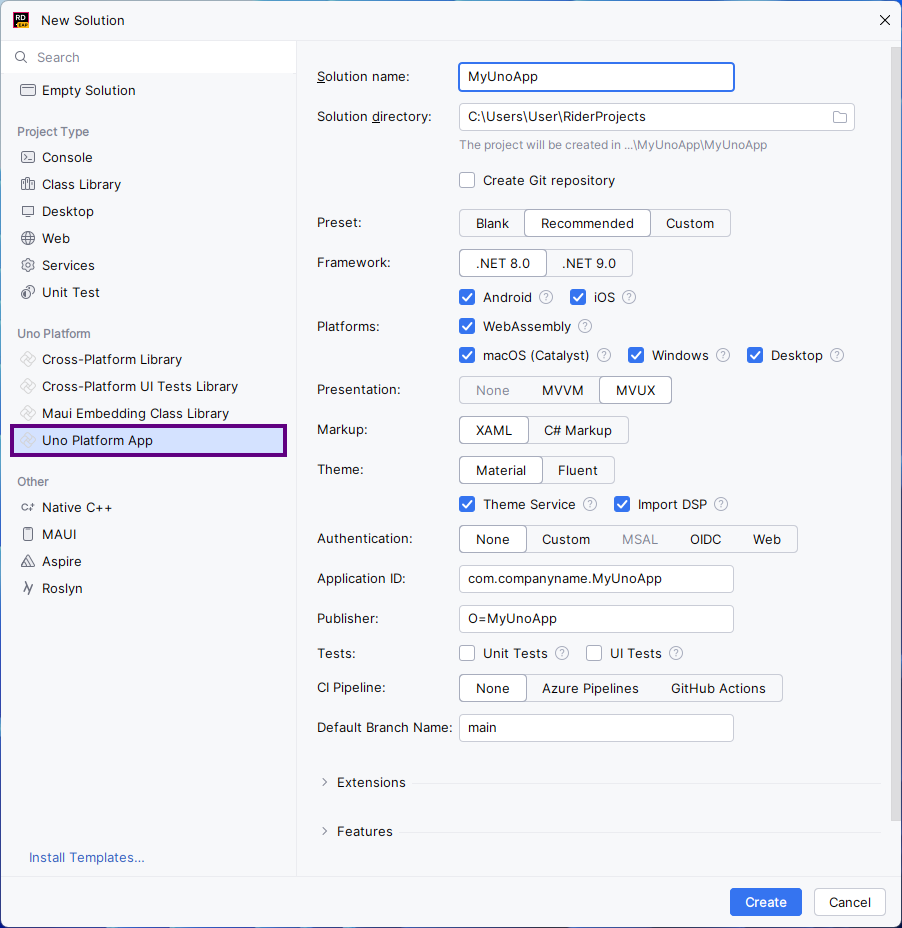
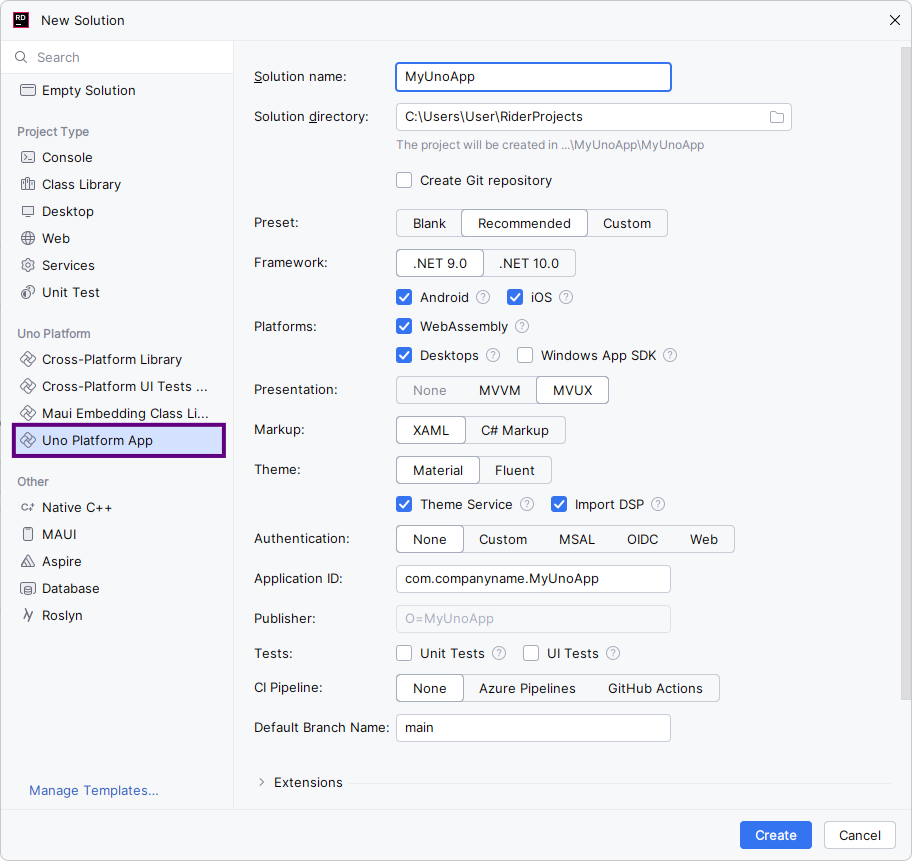
docs: Update migration guides for Uno 6.3 with .NET 10 support and dropped .NET 8 support

diff --git a/doc/articles/net-version-support.md b/doc/articles/net-version-support.md
@@ -10,16 +10,29 @@ This page lists supported .NET versions and [C# language versions](https://learn
 
 ## Table of supported versions
 
-# [**Uno 5 and later**](#tab/uno5)
+# [**Uno Platform 6.3 and later**](#tab/uno63)
+
+| Platform                                   | Default .NET version | Default C# version |  Max .NET version | Max C# version |
+|--------------------------------------------|:--------------------:|:------------------:|:-----------------:|:--------------:|
+| WebAssembly                                | .NET 9               | 13                 | .NET 10           | 14             |
+| Skia Desktop                               | .NET 9               | 13                 | .NET 10           | 14             |
+| WinAppSDK                                  | .NET 9               | 13                 | .NET 10           | 14             |
+| iOS, Android                               | .NET 9               | 13                 | .NET 10           | 14             |
+
+### Notes
+
+- In Uno Platform 6.3, support for .NET 8 has been removed.
+
+# [**Uno Platform 5 and later**](#tab/uno5)
 
 | Platform                                   | Default .NET version | Default C# version |  Max .NET version | Max C# version |
 |--------------------------------------------|:--------------------:|:------------------:|:-----------------:|:--------------:|
 | WebAssembly                                | .NET 8               | 12                 | .NET 9            | 13             |
 | Skia Desktop                               | .NET 8               | 12                 | .NET 9            | 13             |
 | WinAppSDK                                  | .NET 8               | 12                 | .NET 9            | 13             |
-| iOS, Android  | .NET 8               | 12                 | .NET 9            | 13             |
+| iOS, Android                               | .NET 8               | 12                 | .NET 9            | 13             |
 
 ### Notes
 
-- In Uno 5.3, support for .NET 7 has been removed.
-- In Uno 5.0, support for .NET 6 (iOS, Android, mac Catalyst), Xamarin.Android, Xamarin.iOS, and Xamarin.macOS were removed.
+- In Uno Platform 5.3, support for .NET 7 has been removed.
+- In Uno Platform 5.0, support for .NET 6 (iOS, Android, mac Catalyst), Xamarin.Android, Xamarin.iOS, and Xamarin.macOS were removed.

diff --git a/doc/articles/migrating-from-previous-releases.md b/doc/articles/migrating-from-previous-releases.md
@@ -4,6 +4,33 @@ uid: Uno.Development.MigratingFromPreviousReleases
 
 # Migrating from Previous Releases of Uno Platform
 
+## Uno Platform 6.3
+
+Uno Platform 6.3 introduces support for .NET 10 RC1 and drops .NET 8 targets.
+
+### Visual Studio, Visual Studio Code, and Rider
+
+When upgrading to Uno Platform 6.3, make sure to update your IDE extension or plugin to the latest stable version to ensure the Uno Platform development tooling connects properly.
+
+- [Visual Studio extension](https://aka.platform.uno/vs-extension-marketplace)
+- [Visual Studio Code extension](https://aka.platform.uno/vscode-extension-marketplace)
+- [Rider plugin](https://aka.platform.uno/rider-extension-marketplace)
+
+### .NET 8 Support Removed
+
+.NET 8 targets are no longer supported by Uno 6.3. While .NET 8 itself remains a Long Term Support (LTS) release supported until [November 2026](https://dotnet.microsoft.com/en-us/platform/support/policy/dotnet-core), the .NET MAUI 8 workload (mobile) reached end of support on [May 2025](https://dotnet.microsoft.com/en-us/platform/support/policy/maui). You can [upgrade your project to .NET 9](xref:Uno.Development.MigratingFromNet8ToNet9) using our guide.
+
+If you need to stay on .NET 8, you can continue to use **Uno Platform 6.2 or earlier** and plan your migration to .NET 9 or .NET 10.
+
+### .NET 10 RC1
+
+Uno Platform 6.3 is now built with .NET 10 support, allowing you to upgrade existing ones or create new projects using the wizard.
+A few considerations to take into account:
+
+- Moving to .NET 10 or upgrading .NET 10 projects requires the use of .NET 10 RC1 and latest version of [Visual Studio 2026 Insiders](https://visualstudio.microsoft.com/insiders/) as recommended by Microsoft in this [announcement](https://devblogs.microsoft.com/dotnet/dotnet-10-rc-1/#🚀-get-started).
+- Uno Platform provides an updated [Visual Studio extension](https://aka.platform.uno/vs-extension-marketplace) in the store that supports Visual Studio 2026 and the new `.slnx` solution format.
+- To migrate a project to .NET 10, [read the directions](xref:Uno.Development.MigratingFromNet9ToNet10) from our documentation.
+
 ## Uno Platform 6.2
 
 Uno Platform 6.2 does not contain breaking changes that require attention when upgrading.

diff --git a/doc/articles/guides/solution-building-single-targetframework.md b/doc/articles/guides/solution-building-single-targetframework.md
@@ -40,17 +40,17 @@ To do so:
         <PropertyGroup>
             <!-- Uncomment each line for each platform that you want to build: -->
 
-            <!-- <OverrideTargetFramework Condition="''!='hint: Windows App Sdk (WinUI)'">net8.0-windows10.0.19041.0</OverrideTargetFramework> -->
-            <!-- <OverrideTargetFramework Condition="''!='hint: Webassembly'">net8.0-browserwasm</OverrideTargetFramework> -->
-            <!-- <OverrideTargetFramework Condition="''!='hint: Desktop'">net8.0-desktop</OverrideTargetFramework> -->
-            <!-- <OverrideTargetFramework Condition="''!='hint: iOS'">net8.0-ios</OverrideTargetFramework> -->
-            <!-- <OverrideTargetFramework Condition="''!='hint: Android'">net8.0-android</OverrideTargetFramework> -->
-            <!-- <OverrideTargetFramework Condition="''!='hint: TvOS'">net8.0-tvos</OverrideTargetFramework> -->
+            <!-- <OverrideTargetFramework Condition="''!='hint: Windows App Sdk (WinUI)'">net9.0-windows10.0.19041.0</OverrideTargetFramework> -->
+            <!-- <OverrideTargetFramework Condition="''!='hint: Webassembly'">net9.0-browserwasm</OverrideTargetFramework> -->
+            <!-- <OverrideTargetFramework Condition="''!='hint: Desktop'">net9.0-desktop</OverrideTargetFramework> -->
+            <!-- <OverrideTargetFramework Condition="''!='hint: iOS'">net9.0-ios</OverrideTargetFramework> -->
+            <!-- <OverrideTargetFramework Condition="''!='hint: Android'">net9.0-android</OverrideTargetFramework> -->
+            <!-- <OverrideTargetFramework Condition="''!='hint: TvOS'">net9.0-tvos</OverrideTargetFramework> -->
         </PropertyGroup>
     </Project>
     ```
 
-    Make sure to replace `net8.0` and `-windows10.0.19041.0` with the appropriate version from your `.csproj` project.
+    Make sure to replace `net9.0` and `-windows10.0.19041.0` with the appropriate version from your `.csproj` project.
 
 - You can commit `solution-config.props.sample` to your source control.
 - Next, make a copy of `solution-config.props.sample` to `solution-config.props`. This file is [automatically loaded](https://github.com/unoplatform/uno/blob/71f1d5ab067c0dcfad2f4cccd310e506cdeaf6bf/src/Uno.Sdk/targets/Uno.Import.SolutionConfig.props#L9) by the `Uno.Sdk`.

diff --git a/doc/articles/migrating-to-single-project.md b/doc/articles/migrating-to-single-project.md
@@ -60,15 +60,15 @@ We'll take the example of an Uno Platform 5.0 blank app, called `MyApp`, to migr
 
    ```xml
    <Choose>
-     <When Condition="'$(TargetFramework)'=='net8.0-ios'">
+     <When Condition="'$(TargetFramework)'=='net9.0-ios'">
      </When>
-     <When Condition="'$(TargetFramework)'=='net8.0-android'">
+     <When Condition="'$(TargetFramework)'=='net9.0-android'">
      </When>
-     <When Condition="'$(TargetFramework)'=='net8.0-windows10.0.19041'">
+     <When Condition="'$(TargetFramework)'=='net9.0-windows10.0.19041'">
      </When>
-     <When Condition="'$(TargetFramework)'=='net8.0-desktop'">
+     <When Condition="'$(TargetFramework)'=='net9.0-desktop'">
      </When>
-     <When Condition="'$(TargetFramework)'=='net8.0-browserwasm'">
+     <When Condition="'$(TargetFramework)'=='net9.0-browserwasm'">
      </When>
    </Choose>
    ```
@@ -111,13 +111,13 @@ We'll take the example of an Uno Platform 5.0 blank app, called `MyApp`, to migr
     ```xml
     <ProjectReference 
         Include="..\MyApp\MyApp.csproj"
-        SetTargetFramework="TargetFramework=net8.0-browserwasm"
+        SetTargetFramework="TargetFramework=net9.0-browserwasm"
         ReferenceOutputAssembly="false" />
     ```
 
 1. From the empty app created at step one, take the `Directory.Build.props` and `Directory.Build.targets` files and copy those over your own root folder. Make sure to copy individual changes made in your file, such as `CSharpVersion` or `Nullable`.
 1. From the empty app created at step one, take the `Directory.Packages.props`file and copy it over to your own root folder. All of the NuGet packages can be removed from this file, as the Uno.SDK provides those automatically.
-1. In all the projects files, replace `$(DotnetVersion)` with `net8.0`
+1. In all the projects files, replace `$(DotnetVersion)` with `net9.0`
 1. Remove the `solution-config.props.sample` file. This part is now handled by Uno Platform automatically.
 
 At this point, your solution can be compiled using a single project and Uno Platform 5.2. For a guide through using the new single project, head over to [our getting started](xref:Uno.GetStarted).

diff --git a/doc/articles/getting-started/wizard/includes/framework.md b/doc/articles/getting-started/wizard/includes/framework.md
@@ -1,17 +1,23 @@
-This setting lets you choose the .NET version to target. The default is .NET 9.0, but you can also choose .NET 8.0!
-
-- #### .NET 8.0
-
-    [.NET 8.0](https://learn.microsoft.com/dotnet/core/whats-new/dotnet-8) is the successor to .NET 7. It will be supported for three years (until November 2026) as a long-term support (LTS) release. This is the most stable option for new projects.
-
-    ```dotnetcli
-    dotnet new unoapp -tfm net8.0
-    ```
+This setting lets you choose the .NET version to target. The default is .NET 9.0, but you can also choose .NET 10.0!
 
 - #### .NET 9.0
 
-    [.NET 9.0](https://learn.microsoft.com/en-us/dotnet/core/whats-new/dotnet-9/overview) the successor to .NET 8, has a special focus on cloud-native apps and performance. It will be supported for 18 months (until May 2026) as a standard-term support (STS) release. This is the default (for both blank and recommended presets).
+    [.NET 9.0](https://learn.microsoft.com/en-us/dotnet/core/whats-new/dotnet-9/overview), the successor to .NET 8, has a special focus on cloud-native apps and performance.
+    As a Standard Term Support (STS) release, it is now supported for **24 months (until November 10, 2026)**. See the [STS latest announcement](https://devblogs.microsoft.com/dotnet/dotnet-sts-releases-supported-for-24-months/) for more details.
+
+    > [!NOTE]
+    > For **mobile workloads**, there is **no change yet**, support remains at **18 months**. See [MAUI support policy](https://dotnet.microsoft.com/en-us/platform/support/policy/maui) for more details.
 
     ```dotnetcli
     dotnet new unoapp -tfm net9.0
+    ```
+
+- #### .NET 10.0
+
+    [.NET 10.0](https://learn.microsoft.com/en-us/dotnet/core/whats-new/dotnet-10/overview), the successor to .NET 9, includes improvements in performance, C# 14 support, and long-term platform stability.
+    As a Long Term Support (LTS) release, it will be supported for **three years (until November 2028)**.
+    At the moment, it is in preview and the least stable option for new projects.
+
+    ```dotnetcli
+    dotnet new unoapp -tfm net10.0
     ```

diff --git a/doc/articles/concepts/overview/why-uno-platform.md b/doc/articles/concepts/overview/why-uno-platform.md
@@ -174,7 +174,7 @@ Based on SkiaSharp support, Uno Platform provides AnimatedVisualPlayer to give t
 
 ## Performance and app size with AOT/Jiterpreter
 
-Uno Platform allows to use .NET 8 features such as Profiled AOT (Ahead Of Time compilation) and the Jiterpreter, to get better performance for your apps and balanced size. Profiled AOT is a powerful feature that allows to continue using the interpreter for code that is not often used, thus keeping your app's size down.
+Uno Platform allows to use .NET 9+ features such as Profiled AOT (Ahead Of Time compilation) and the Jiterpreter, to get better performance for your apps and balanced size. Profiled AOT is a powerful feature that allows to continue using the interpreter for code that is not often used, thus keeping your app's size down.
 
 ## Comprehensive App Packaging for All Platforms
 
@@ -283,7 +283,7 @@ As Uno Platform grows, the team behind it grows as well. The product is in good 
 
 ## Integrates with any .NET Library
 
-In addition to the UI components mentioned above, Uno Platform apps also integrate perfectly with your existing .NET libraries. This includes both .NET Standard 2.0 and libraries targeting .NET 6, up to the latest with .NET 8. Because of this, your Uno Platform app has compatibility with packages like Json.NET, LiteDB, SQLite, and SkiaSharp.
+In addition to the UI components mentioned above, Uno Platform apps also integrate perfectly with your existing .NET libraries. This includes both .NET Standard 2.0 and libraries targeting .NET 6, up to the latest .NET version. Because of this, your Uno Platform app has compatibility with packages like Json.NET, LiteDB, SQLite, and SkiaSharp.
 
 ## The Community
 

diff --git a/doc/articles/migrating-from-net9-to-net10.md b/doc/articles/migrating-from-net9-to-net10.md
@@ -1,0 +1,15 @@
+---
+uid: Uno.Development.MigratingFromNet9ToNet10
+---
+
+# How to Upgrade from .NET 9 to .NET 10
+
+Migrating from .NET 9 to .NET 10 is a generally straightforward process. You may find below some specific adjustments to make to your projects and libraries when upgrading.
+
+To upgrade to .NET 10:
+
+- First, read [What's New in .NET 10](https://learn.microsoft.com/en-us/dotnet/core/whats-new/dotnet-10/overview).
+- As recommended in Microsoft’s [.NET RC1 announcement](https://devblogs.microsoft.com/dotnet/dotnet-10-rc-1/#🚀-get-started), install the latest version of [Visual Studio 2026 Insiders](https://visualstudio.microsoft.com/insiders/) or later and run latest stable version of [uno.check](xref:UnoCheck.UsingUnoCheck) with the `--pre-major` parameter to install .NET 10.
+- Uno Platform provides an updated [Visual Studio extension](https://aka.platform.uno/vs-extension-marketplace) in the store that supports Visual Studio 2026 and the new `.slnx` solution format.
+- Change all your target framework (TFM) references from `net9.0` to `net10.0`, and `net9.0-*` to `net10.0-*`.
+- Clean your project by deleting the `bin` and `obj` folders.

diff --git a/doc/articles/platform-specific-xaml.md b/doc/articles/platform-specific-xaml.md
@@ -149,7 +149,7 @@ More visually, platform support for the pre-defined prefixes is shown in the bel
 
 ### XAML prefixes in cross-targeted libraries
 
-For Uno Platform 6.0 and above, XAML prefixes behave differently in class libraries than when used directly in application code. Specifically, it isn't possible to distinguish Skia and Wasm/Native in a library, since both platforms use the `net8.0`/`net9.0` target. The `wasm` and `skia` prefixes will always evaluate to false inside of a library.
+For Uno Platform 6.0 and above, XAML prefixes behave differently in class libraries than when used directly in application code. Specifically, it isn't possible to distinguish Skia and Wasm/Native in a library, since both platforms use the `net9.0`/`net10.0` target. The `wasm` and `skia` prefixes will always evaluate to false inside of a library.
 
 The prefix `netstdref` is available and will include the objects or properties in both Skia and Wasm builds. A prefix `not_nestdref` can also be used to exclude them. Since Skia and Wasm/Native are similar, it is often not necessary to make the distinction.
 

diff --git a/doc/articles/getting-started/requirements.md b/doc/articles/getting-started/requirements.md
@@ -40,4 +40,4 @@ Uno Platform applications run on all macOS versions supported by .NET, currently
 
 ## Linux
 
-Uno Platform applications run on Linux distributions and versions where .NET 8 and later are supported, [listed here](https://learn.microsoft.com/dotnet/core/install/linux), using the `net9.0-desktop` target framework. Supported environments are X11 and Framebuffer.
+Uno Platform applications run on Linux distributions and versions where latest .NET versions are supported, [listed here](https://learn.microsoft.com/dotnet/core/install/linux), using the `net9.0-desktop` target framework. Supported environments are X11 and Framebuffer.

diff --git a/doc/articles/how-uno-works.md b/doc/articles/how-uno-works.md
@@ -54,7 +54,7 @@ On Windows (the `net9.0-windows10.0.xxxxx` target framework) using [Windows App 
 
 ### Binaries
 
-Uno Platform applications use [.NET 8+](https://learn.microsoft.com/dotnet/core/introduction) and run on all major platforms:
+Uno Platform applications use [.NET 9+](https://learn.microsoft.com/dotnet/core/introduction) and run on all major platforms:
 
 - **Mobile/Desktop**: via .NET for Mobile
 - **Web**: via .NET for WebAssembly

diff --git a/doc/articles/guides/profiling-applications.md b/doc/articles/guides/profiling-applications.md
@@ -94,7 +94,7 @@ Once that's printed, go ahead and start profiling:
 dotnet-trace collect --diagnostic-port ~/my-dev-port,connect --format speedscope
 ```
 
-## Profiling .NET Android applications (.NET 8)
+## Profiling .NET Android applications
 
 ### Enable profiling in your application
 
